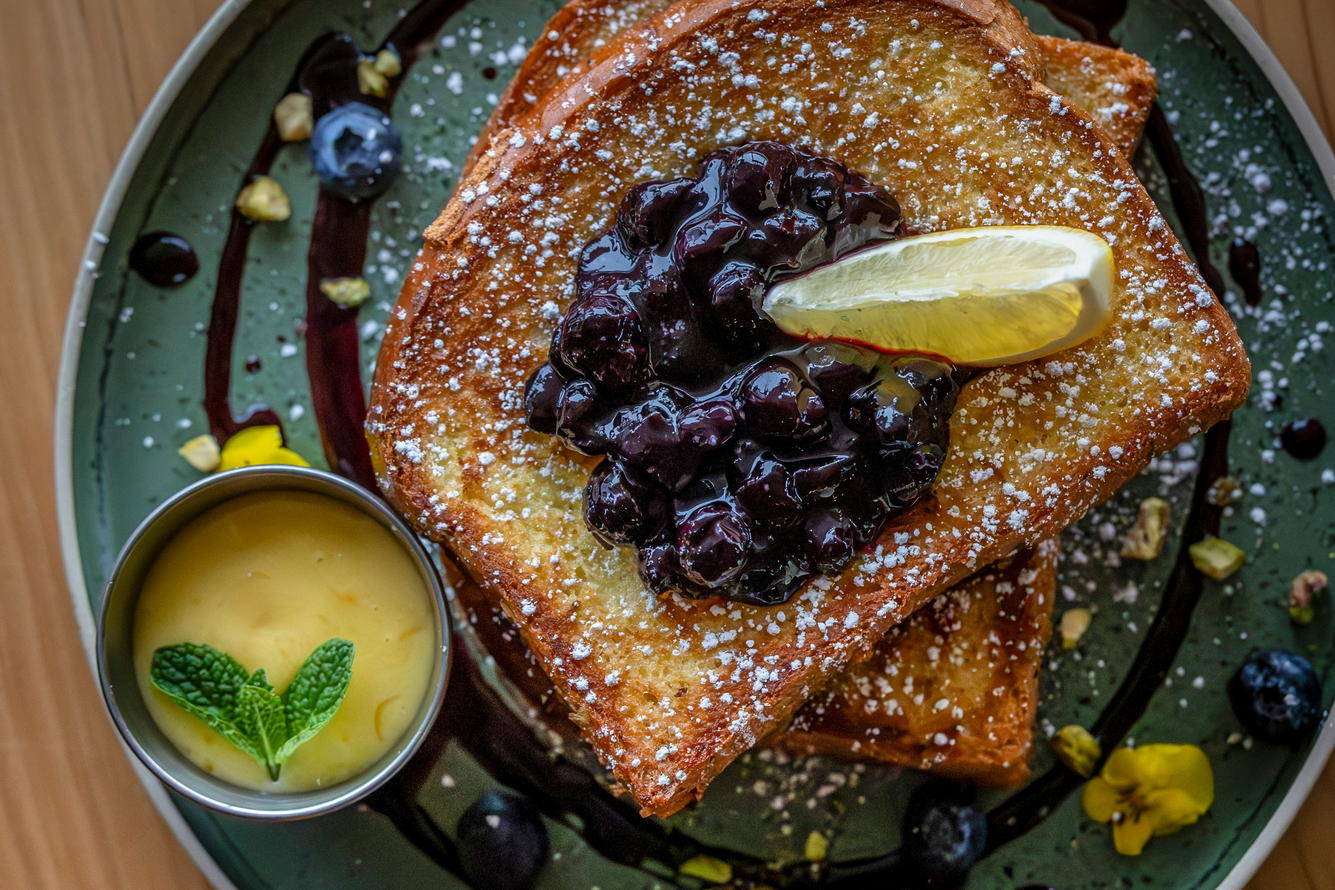
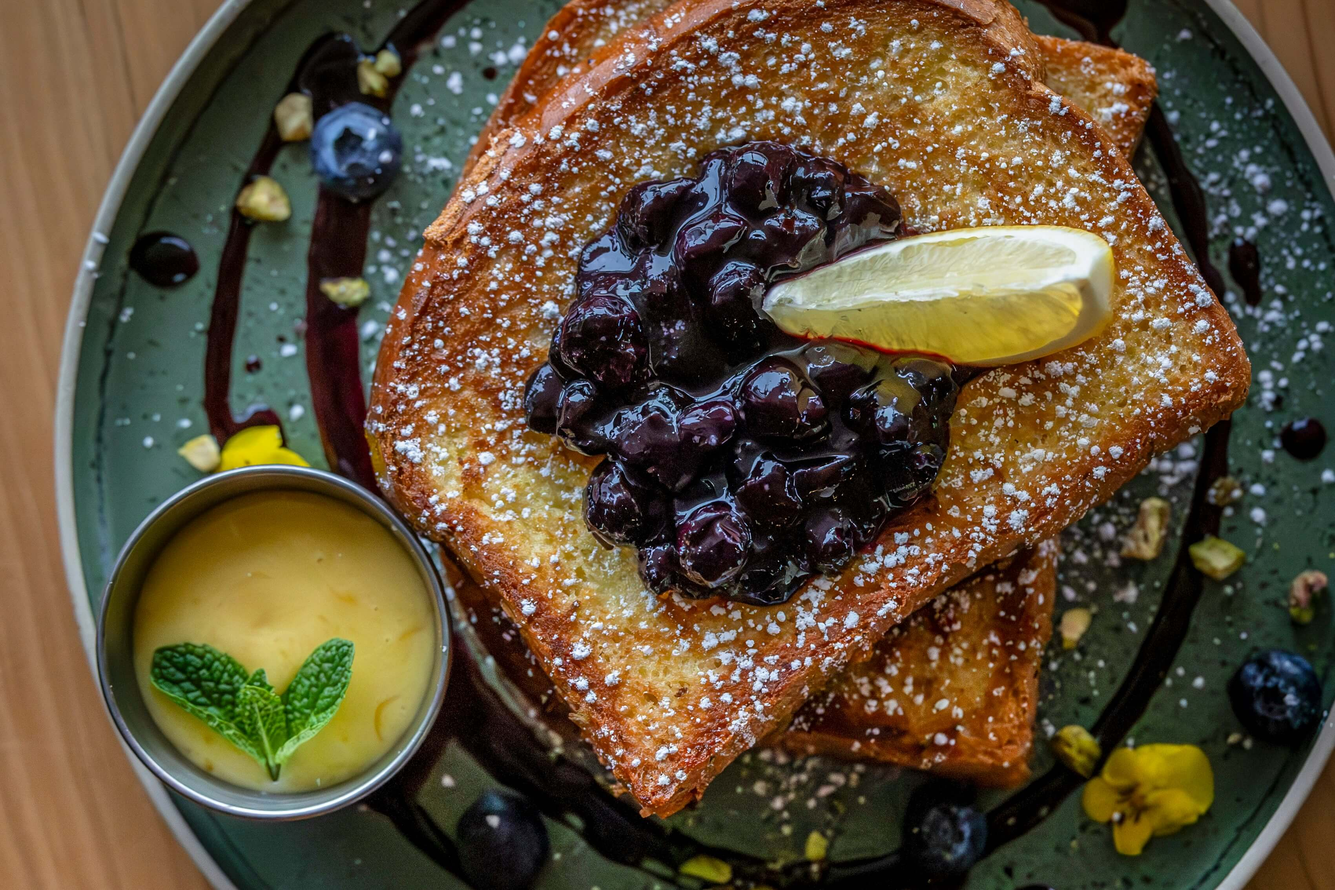
Optimización de imágenes

diff --git a/brunchie_design/src/pages/Menu.jsx b/brunchie_design/src/pages/Menu.jsx
@@ -7,7 +7,7 @@ import pancakes from "../assets/pancakes.jpg";
 import avocado from "../assets/avocado.jpg";
 import englisheggs from "../assets/englisheggs.jpg";
 import torrejon from "../assets/torrejon.jpg";
-import baconeggs from "../assets/baconeggs.jpg";
+import baconeggs from "../assets/baconeggs.webp";
 import eggs from "../assets/eggs.jpg";
 import "./Menu.css";
 
@@ -110,7 +110,13 @@ const Menu = () => {
       <Navbar />
 
       <section className="menu-hero">
-        <video className="menu-hero-video" autoPlay muted loop playsInline preload="metadata">
+        <video
+            className="menu-hero-video"
+            autoPlay
+            muted
+            loop
+            playsInline
+            preload="metadata">
           <source src="https://res.cloudinary.com/dwhezsxkg/video/upload/v1778112262/menubrunch_xe5q9r.mp4" type="video/mp4" />
         </video>
         <div className="menu-hero-overlay">

diff --git a/brunchie_design/src/components/Favorites.jsx b/brunchie_design/src/components/Favorites.jsx
@@ -87,14 +87,14 @@ const Favorites = () => {
         
         <h2 className="title is-4 fav-title">Nuestros Favoritos</h2>
 
-        {/* 🔥 CARRUSEL 3D */}
+
         <div className="carousel-container mt-5">
           <div className="carousel">
             {items.map((item, index) => (
               <div className="fav-card card custom-card" key={index}>
                 <div className="card-image">
                   <figure className="image is-4by3">
-                    <img src={item.img} alt={item.name} />
+                    <img src={item.img} alt={item.name} loading="lazy"/>
                   </figure>
                 </div>
                 <div className="card-content">

diff --git a/brunchie_design/src/components/Hero.jsx b/brunchie_design/src/components/Hero.jsx
@@ -30,6 +30,8 @@ const Hero = () => {
   return (
     <section ref={heroRef} className="hero is-large hero-bg">
       <video
+        loading="lazy"
+        preload="none"
         className="hero-video"
         autoPlay
         muted
